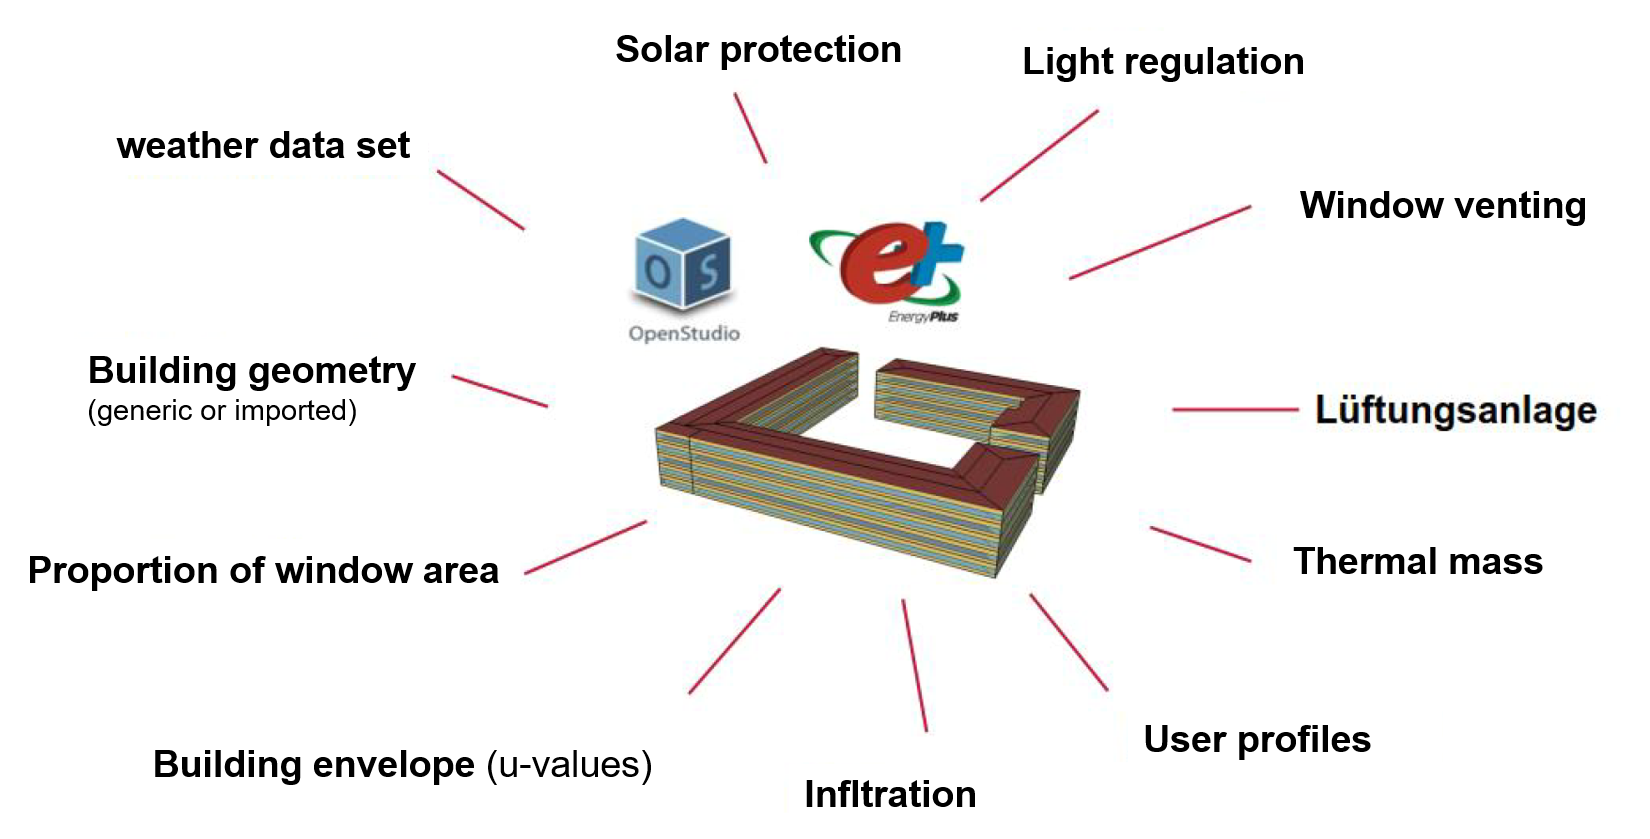
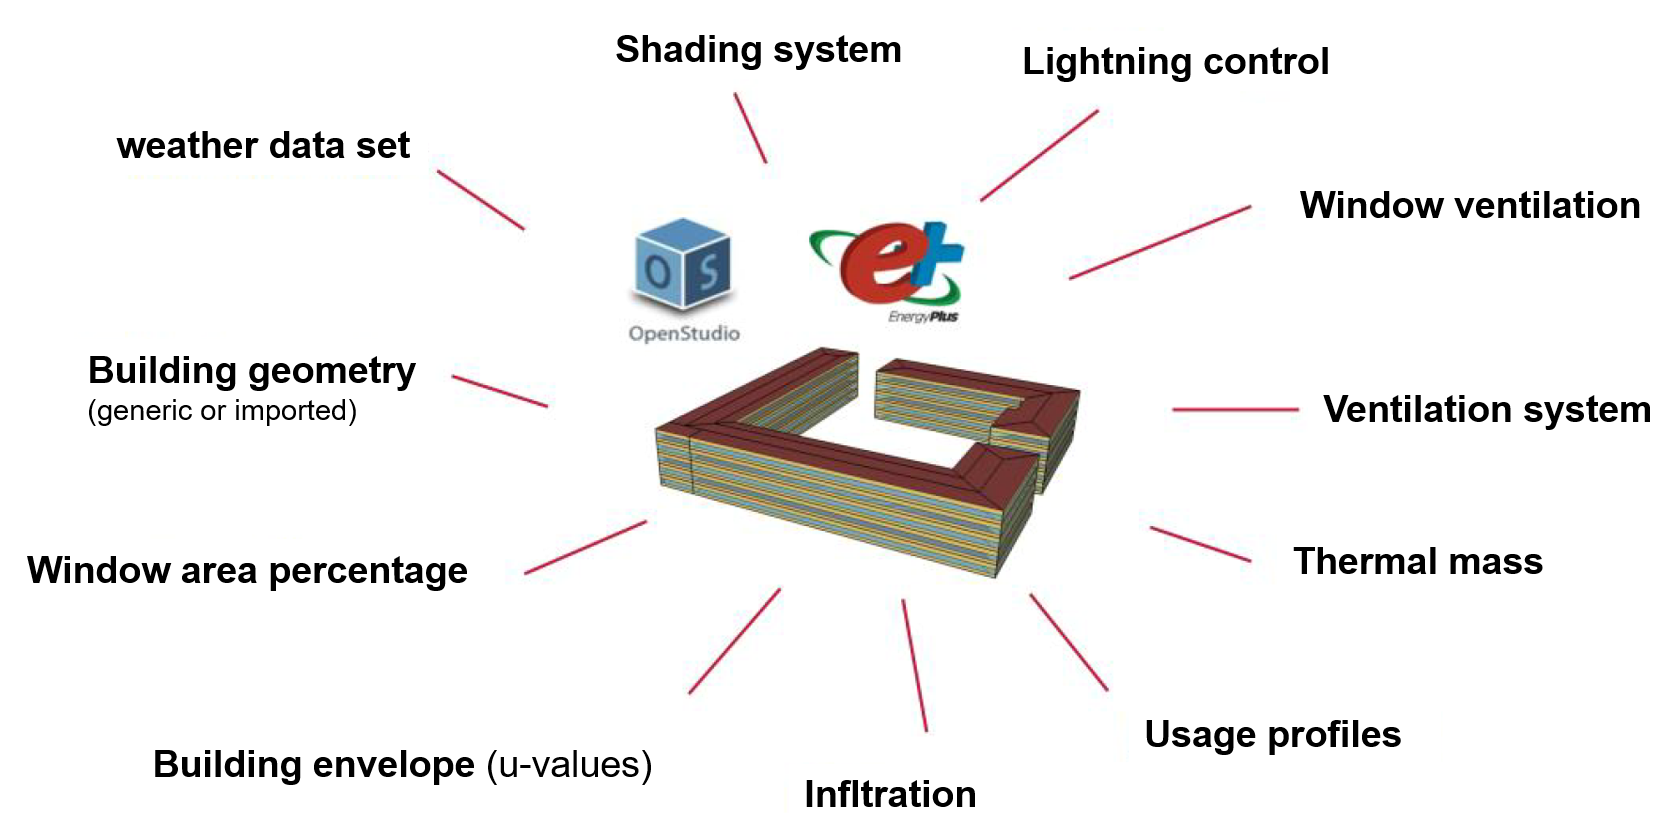
corrections

diff --git a/docs/gensim_user_manual.md b/docs/gensim_user_manual.md
@@ -17,7 +17,7 @@ An exception is the possibility besides the generic geometry generation (cubic b
 
 The main output of GenSim is high-resolution profiles in units of  \(Wh/m²_{NRF}\). Within the building simulation no distribution or transfer losses are represented. Therefore all results must be evaluated as net energy. Distribution losses must be imprinted afterwards for example in the form of an offset. 
 
-In addition to the output profiles GenSim provides various annual values, an overview of the building balance and the ability to perform of sensitivity analyses (see  figure below). 
+In addition to the output profiles GenSim provides various annual values, an overview of the building energy balance and the ability to perform of sensitivity analyses (see  figure below). 
 
 ![overview of the output sizes](fig\231023_overview.PNG)
 
@@ -43,7 +43,7 @@ Corresponding *EnergyPlus®* weather datasets[^2] have been generated for the 25
 
 **Store and simulate custom weather data sets**
 In general any *EnergyPlus®* weather data set can be stored by the user and selected for the simulation with GenSim. A complete weather data set always consists of an epw-file and a ddy-file which must be stored under the same file name in the subfolder "weather" in the GenSim file path. The refresh button can be used to update the selection in the drop down list.
-Ready-to-use weather datasets (epw + ddy) for worldwide locations can be downloaded free of charge from the following websites: 
+Ready-to-use weather data sets (epw + ddy) for worldwide locations can be downloaded free of charge from the following websites: 
 
 [https://energyplus.net/weather](https://energyplus.net/weather)    
 [http://climate.onebuilding.org/](http://climate.onebuilding.org/) 
@@ -51,7 +51,7 @@ Ready-to-use weather datasets (epw + ddy) for worldwide locations can be downloa
 
 Furthermore the TRY of the DWD can be used to generate location-specific weather data sets for the whole of Germany which can then be converted into valid EnergyPlus weather data sets using the "EnergyPlus Weather Converter". For this purpose a separate and more detailed instruction can be found in the following folder path:
 
-*Verweis auf interne Dokumente*
+*link coming soon*
 
 
 ###3.2 Building geometry
@@ -60,11 +60,11 @@ The building geometry can be defined in two ways. Either a generic cubic geometr
 
 ![selection of the method for geometry generation in the Excel® GUI](fig\231023_selection_method.png)
 
-Basically the *EnergyPlus®* geometry model is illustrated with its external dimensions but no component thicknesses or volumes (e.g. wall or ceiling thicknesses) are represented. As a result the entire Gross Floor Area (BGF) or Gross Room Volume (BRF) is simulated as the volume to be conditioned. The inaccuracy resulting from this simplification is negligible in any case given the low level of model detail. The net room area (NRF) is used to convert the results into area-specific quantities. This means that the absolute results of the simulation are related to a typical NRF corresponding to the simulated BGF.
+Basically the *EnergyPlus®* geometry model is illustrated with its external dimensions but no component thicknesses or volumes (e.g. wall or ceiling thicknesses) are represented. As a result the entire Gross Floor Area (GFA) or Gross Room Volume (BRF) is simulated as the volume to be conditioned. The inaccuracy resulting from this simplification is negligible in any case given the low level of model detail. The net room area (NFA) is used to convert the results into area-specific quantities. This means that the absolute results of the simulation are related to a typical NFA corresponding to the simulated GFA.
 
 ####3.2.1 Generic building model
 
-The generic geometry model is a cubic building (see figure) defined by the parameters "length", "width", " height", "number of floors" and "window area proportions"[^5] (see figure). An idealised floor plan is used which divides each floor into 4 external zones and one internal zone (see figure). 
+The generic geometry model is a cubic building (see figure) defined by the parameters "length", "width", " floor height", "number of floors" and "window area percentage"[^5] (see figure). An idealised floor plan is used which divides each floor into 4 external zones and one internal zone (see figure). 
 
 After the simulation it is possible to view the generic geometry model in *SketchUp®* using the *OpenStudio®* SketchUp plug-ins. The model file is located in 
 "/Output/run" directory under the name "in.osm".
@@ -92,15 +92,15 @@ The orientation of the building can also be changed using a drop down menu (see 
 
 
 
-**NRF/BGF ratio**
+**Ratio NFA/GFA**
 
-As already mentioned only gross areas or volumes are represented in the EnergyPlus® model. In order to convert the absolute results of the simulation into area specific results with the unit \(Wh/m²_{NRF}\) the user now needs to specify the ratio BGF/NRF. This can either be entered as an individual value or it can be determined from previously stored characteristic values. Key figures from the Building Cost Index (BKI) and VDI 3807-2 have been stored for a variety of building typologies. 
+As already mentioned only gross areas or volumes are represented in the EnergyPlus® model. In order to convert the absolute results of the simulation into area specific results with the unit \(Wh/m²_{NFA}\) the user now needs to specify the ratio GFA/NFA. This can either be entered as an individual value or it can be determined from previously stored characteristic values. Key figures from the Building Cost Index (BKI) and VDI 3807-2 have been stored for a variety of building typologies. 
 
 
 
 **Window areas**
 
-Besides the actual geometry window areas also need to be defined. Therefore a corresponding "window band"[^8] is modelled by specifying a proportion of window area per facade (m² of window area / m² of facade area [%] - see following figure).
+Besides the actual geometry window areas also need to be defined. Therefore a corresponding "window band"[^8] is modelled by specifying a percentage of window area per facade (m² of window area / m² of facade area [%] - see following figure).
 [^8]: Ratio of transparent to opaque outer surface (window without frame) 
 
 ![window area](fig\231025_window_area.PNG)
@@ -117,8 +117,7 @@ Optionally individual facade components as well as the roof and floor plate of t
 
 As already mentioned an individual geometry model can optionally be created with the OpenStudio® SketchUp® plugin if the building geometry is known in more detail and/or  significantly differs from a cubic shape. The osm-model file created this way can be imported into GenSim by the Import button (see following figure). A short tutorial on how to create your own geometry model can be found in the following section 5. Currently the gross floor area (GFA) of the imported OpenStudio® model is not read in automatically so the user must enter it manually. If required, the actual GFA of the model can be read from the file "eplustbl.htm" in the "/Output/run" file path after a test simulation run (Total Building Area). The (gross) floor height of the imported geometry model itself must also be entered. 
 
-
-*figure missing*
+![import geometry model](fig\231115_import_geometry_model.png)
 
 
 ###3.3 Building usage
@@ -127,7 +126,7 @@ By using electrical devices the user directly influences the electricity demand.
 
 ![parameter first day of the year](fig\231025_parameter_first_day.png)
 
-*figure missing*
+![profile typology days](fig\231115_profile_typology_days.png)
 
 Up to 5 periods can be defined for public holidays/vacation days (see following figure). These can be holiday periods e.g. when simulating a school or university building.
 
@@ -140,7 +139,7 @@ The type days for electrical devices and lighting are available in the form of s
 
 **Person occupancy**
 
-Two separate type day profiles are defined for person occupancy. On the one hand a standardised profile describing the presence of persons (0...1) and on the other hand a profile describing the activity of the persons present in the unit power per person (\(W/pers\)). By multiplying these two profiles and the person occupancy in \(m²NRF/person\) the result is - like for electrical devices and lighting - a profile in \(W/m²_{NRF}\) (\(W/person\) * \(person/m²_{NRF}\)). 
+Two separate type day profiles are defined for person occupancy. On the one hand a standardised profile describing the presence of persons (0...1) and on the other hand a profile describing the activity of the persons present in the unit power per person (\(W/pers\)). By multiplying these two profiles and the person occupancy in \(m²NFA/person\) the result is - like for electrical devices and lighting - a profile in \(W/m²_{NFA}\) (\(W/person\) * \(person/m²_{NFA}\)). 
 
 ![definition of the building usage](fig\231025_definition_building_usage.PNG)
 
@@ -160,7 +159,7 @@ It is also possible to define all profiles yourself. Custom profiles can be crea
 
 A number of pre-defined component structures are stored for the external components of the building. These can be selected from the drop-down menu see figure. Additionally it is also possible to define your own component structures. For this use the "Own Components" menu item (see figure) to define all the required physical values for the external wall, roof, floor plate, intermediate ceiling and window component groups. Note: The heat transmission coefficient of opaque components is calculated from the layer thicknesses and specific thermal conductivities of the materials and the heat transfer resistances. When creating new layers all physical quantities must be fully described. 
 
-![definition of he building standard](fig\231025_definition_building_standard.PNG)
+![definition of the building standard](fig\231025_definition_building_standard.PNG)
 
 ![menu item own components](fig\231025_menu_own_components.png)
 
@@ -194,11 +193,11 @@ There are a number of optional model features that can be activated and these ar
 
 **Window ventialtion in case of overheating (cooling)**
 
-In order to simplify window ventilation (for cooling) in case of overheating of the rooms the function "window ventilation in case of overheating" can be activated (see following figure). This requires the specification of an air exchange rate (typically 1...2/h) and a threshold for the room temperature at which occupants may open the windows. Actual window ventilation of the overheated rooms will only occur if, as a further condition, the temperature difference between the indoor air and the outdoor air meets a minimum value. If a value of 1 Kelvin is set for this parameter then the temperature of the outdoor air must be at least 1 K below the temperature of the indoor air for the window ventilation to actually become active during the simulation. This parameter can be set to 0 Kelvin as the default setting.
+In order to simplify window ventilation (for cooling) in case of overheating of the rooms the function "window ventilation in case of overheating" can be activated (see following figure). This requires the specification of  air changes per hour (typically 1...2/h) and a threshold for the room temperature at which occupants may open the windows. Actual window ventilation of the overheated rooms will only occur if, as a further condition, the temperature difference between the indoor air and the outdoor air meets a minimum value. If a value of 1 Kelvin is set for this parameter then the temperature of the outdoor air must be at least 1 K below the temperature of the indoor air for the window ventilation to actually become active during the simulation. This parameter can be set to 0 Kelvin as the default setting.
 
 **Infiltration**
 
-By defining an air exchange rate (see following figure) a constant air exchange rate is applied to all conditioned zones of the building during the simulation to reproduce the building's leakage. Reference values can be found in the GenSim reference library. 
+By defining the air changes per hour (see following figure) a constant air exchange rate is applied to all conditioned zones of the building during the simulation to reproduce the building's leakage. Reference values can be found in the GenSim reference library. 
 
 ![definition of other parameters](fig\231025_definition_further_parameters.PNG)
 
@@ -206,14 +205,8 @@ By defining an air exchange rate (see following figure) a constant air exchange 
 
 Daylight-dependent lighting control can be activated to realistically simulate user behaviour in terms of artificial lighting operation depending on the daylight available in individual rooms. When a certain level of daylight is reached (see parameter "daylight threshold" in the figure above) the lighting in individual rooms is deactivated contrary to the active "lighting usage profile". This leads to the typical seasonal character of the lighting profile as shown in the following figure.
 
-*figure missing*
+![example lightning annual value](231115_lightning_annual_value.png)
 
-
-**Photovoltaic**
-
-Besides simulating the actual building, a simplified photovoltaic simulation can also be done. This option must be activated by ticking a checkbox (see following figure). Depending on the parameters "elevation angle" and "azimuth" as well as "module efficiency" and "system efficiency" a building-independent photovoltaic simulation can be done. A ground-mounted photovoltaic system with a module area of 1 m² is simulated. A building integrated PV system cannot be simulated with GenSim.
-
-*figure missing*
 
 ## **4 Simulation**
 

diff --git a/docs/abbreviations_list.md b/docs/abbreviations_list.md
@@ -8,7 +8,6 @@
 | BA           | Battery (electrical)                                                        |
 | BB           | Biomass Boiler                                                              |
 | BETS         | Borehole Thermal Energy Storage                                             |
-| BGF          | Gross floor area (GFA)                                                      |
 | BRF          | Gross Room Volume                                                           |
 | BIM          | Building Information Modeling                                               |
 | BKI          | Building cost index                                                         |
@@ -28,6 +27,7 @@
 | GB           | Gas Boiler                                                                  |
 | GCV          | Gross Calorific Value, also known as Higher Heating Value (HHV)             |
 | GenSim       | Generic Building Simulation [simulation tool]                               |
+| GFA          | Gross floor area (BGF)                                                      |
 | HC           | Hydrogen Compressor                                                         |
 | HEL          | Hydrogen Electrolyser                                                       |
 | HHV          | Higher Heating Value, also known as Gross Calorific Value (GCV)             |
@@ -41,6 +41,7 @@
 | LHV          | Lower Heating Value, also known as Net Calorific Value (NCV)                |
 | MOT          | Minimum Operation Time                                                      |
 | NCV          | Net Calorific Value, also known as Lower Heating Value (LHV)                |
+| NFA          | Net building area (NRF)                                                     |
 | OH           | Oil Heating                                                                 |
 | PLF          | Part Load Factor                                                            |
 | PLR          | Part Load Ratio                                                             |
